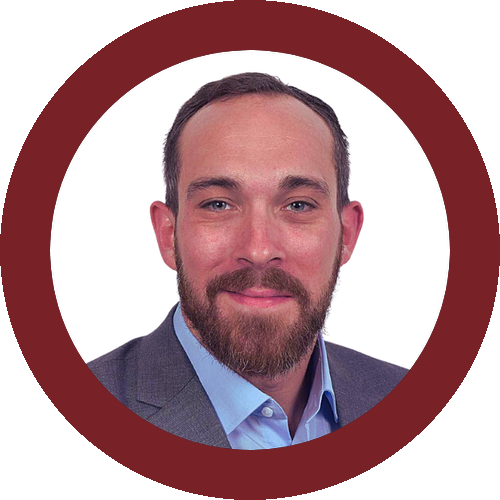
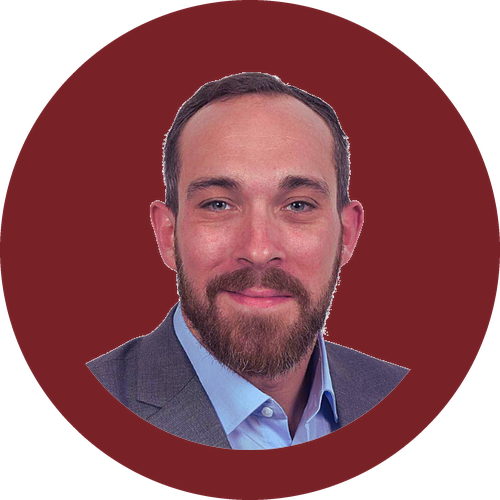
Retire le fond studio blanc des portraits, comité sur fond sombre
Les photos du comité, une fois recadrées en cercle par le site
d'origine, gardaient le fond blanc du studio photo derrière la
personne, ce qui créait un halo visible entre le portrait et le
cercle bourgogne. Chaque portrait est maintenant détouré (le blanc
retiré par propagation depuis les bords) avant que le cercle bourgogne
ne soit fusionné, avec un contour anti-crénelé plutôt que brut. La
section comité de la page La NSH passe en fond sombre, comme sur
l'accueil, pour que les portraits soient toujours présentés sur fond
foncé.

diff --git a/src/app/la-nsh/page.tsx b/src/app/la-nsh/page.tsx
@@ -143,15 +143,17 @@ export default function LaNshPage() {
             </div>
           </aside>
         </div>
+      </div>
 
-        <section id="comite" className="mt-20 scroll-mt-24 border-t border-line pt-16">
-          <h2 className="text-[clamp(1.75rem,2vw+1rem,2.25rem)] leading-[1.2] text-ink">
+      <section id="comite" className="scroll-mt-24 bg-deep py-16 text-deep-text md:py-20">
+        <div className="mx-auto max-w-[1240px] px-6 md:px-10">
+          <h2 className="font-serif text-[clamp(1.75rem,2vw+1rem,2.25rem)] leading-[1.2] text-deep-text">
             Membres du comité de la NSH-Genève
           </h2>
           <ul className="mt-10 grid grid-cols-1 gap-x-8 gap-y-12 sm:grid-cols-2 lg:grid-cols-3">
             {COMMITTEE.map((member) => (
               <li key={member.name} className="text-center sm:text-left">
-                <div className="relative mx-auto h-28 w-28 overflow-hidden rounded-full bg-red sm:mx-0">
+                <div className="relative mx-auto h-28 w-28 overflow-hidden rounded-full sm:mx-0">
                   <Image
                     src={member.photo}
                     alt={member.name}
@@ -160,14 +162,14 @@ export default function LaNshPage() {
                     className="object-contain"
                   />
                 </div>
-                <p className="mt-4 text-base font-medium text-ink">
+                <p className="mt-4 text-base font-medium text-deep-text">
                   {member.name}
                 </p>
-                <p className="text-sm text-ink-soft">{member.role}</p>
+                <p className="text-sm text-deep-soft">{member.role}</p>
                 {member.email && (
                   <a
                     href={`mailto:${member.email}`}
-                    className="mt-1 inline-block text-sm text-ink-soft underline decoration-line underline-offset-4 hover:text-red"
+                    className="mt-1 inline-block text-sm text-deep-soft underline decoration-deep-soft/40 underline-offset-4 hover:text-red"
                   >
                     {member.email}
                   </a>
@@ -175,8 +177,8 @@ export default function LaNshPage() {
               </li>
             ))}
           </ul>
-        </section>
-      </div>
+        </div>
+      </section>
     </div>
   );
 }

diff --git a/src/app/page.tsx b/src/app/page.tsx
@@ -199,7 +199,7 @@ export default function HomePage() {
           <ul className="mt-10 grid grid-cols-1 gap-10 sm:grid-cols-3">
             {boardLeads.map((member) => (
               <li key={member.name} className="text-center">
-                <div className="relative mx-auto h-28 w-28 overflow-hidden rounded-full bg-red">
+                <div className="relative mx-auto h-28 w-28 overflow-hidden rounded-full">
                   <Image
                     src={member.photo}
                     alt={member.name}
